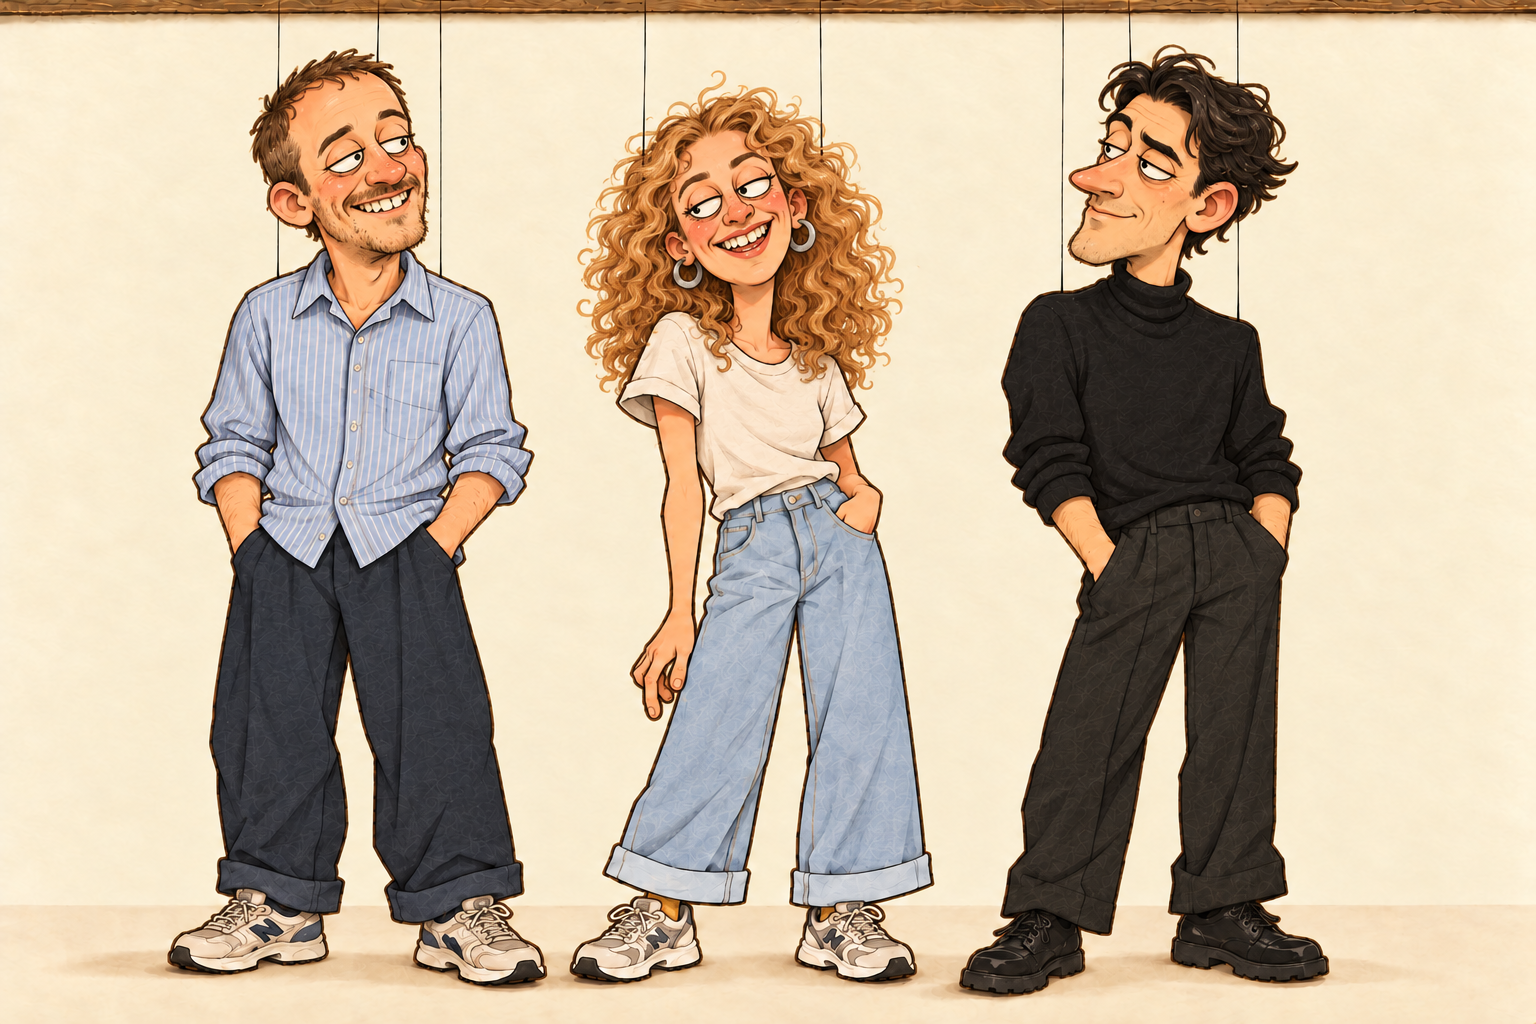
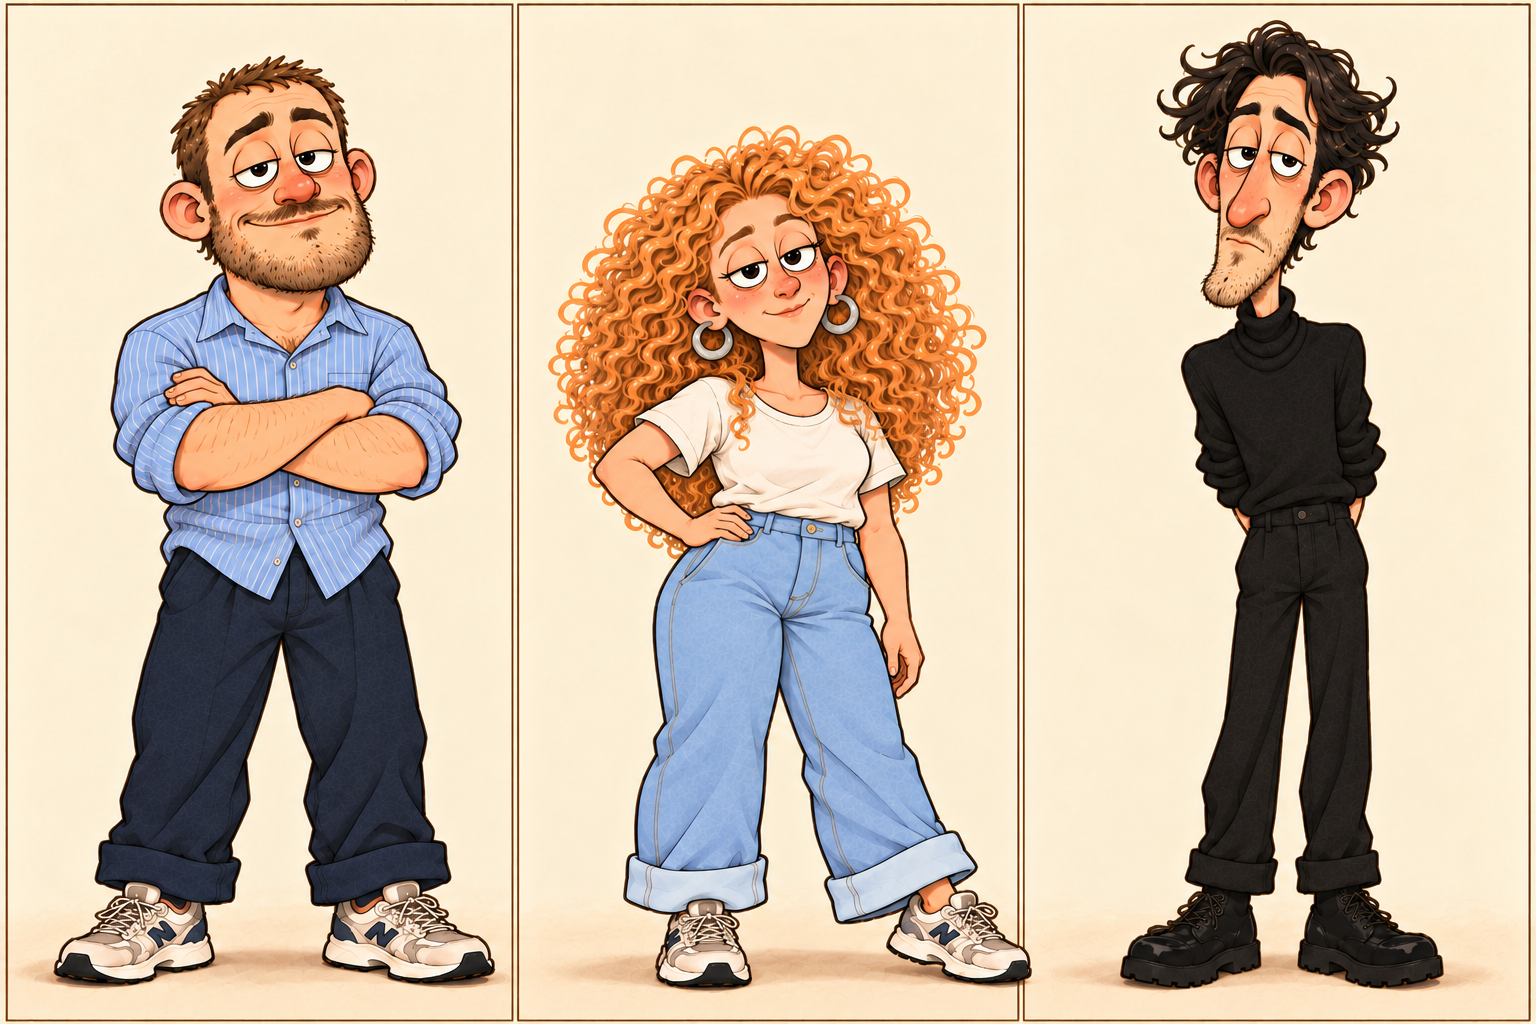
Unify nine character portraits with distinct revised caricatures

diff --git a/src/BrandTheatre.jsx b/src/BrandTheatre.jsx
@@ -47,6 +47,18 @@ const scenes = [
   },
 ];
 
+const characters = [
+  "Cyklisten",
+  "Den røde puffer",
+  "Striberne",
+  "Fodboldtrøjen",
+  "Den grønne jakke",
+  "Den blå frakke",
+  "Den blå skjorte",
+  "De jordbærblonde krøller",
+  "Den sorte rullekrave",
+];
+
 function SceneGallery({ onExploreMap }) {
   const [active, setActive] = useState(0);
   const tabs = useRef([]);
@@ -157,33 +169,38 @@ function SceneGallery({ onExploreMap }) {
           <ArrowRight size={19} />
         </button>
       </div>
-      <section className="theatre-cast" aria-label="SunSpot-figurerne">
+      <section
+        className="theatre-cast"
+        aria-label="SunSpots komplette karaktergalleri"
+      >
         <div className="theatre-cast-heading">
-          <h3>Byens soljægere.</h3>
-          <span>Originale figurer · København 2026</span>
+          <h3>Hele holdet.</h3>
+          <span>9 figurer · København 2026</span>
         </div>
-        <Image
-          src={illustrations["sunspot-cast"]}
-          alt="SunSpots originale voksne papfigurer med skæve proportioner, udtryksfulde ansigter, tekniske jakker, brede jeans og cykelvenlige sko."
-          placeholder="blur"
-          width={1536}
-          height={1024}
-          sizes="(max-width: 760px) calc(100vw - 52px), 880px"
-          loading="lazy"
-        />
-      </section>
-      <section className="theatre-cast" aria-label="Tre nye SunSpot-figurer">
-        <div className="theatre-cast-heading">
-          <h3>Tre mere i solen.</h3>
-          <span>Venner af SunSpot</span>
+        <div className="theatre-character-grid">
+          {characters.map((character, index) => (
+            <figure
+              className="theatre-character-card"
+              role="img"
+              aria-label={character}
+              key={character}
+            >
+              <div className="theatre-character-portrait">
+                <Image
+                  src={illustrations["sunspot-complete-cast"]}
+                  alt=""
+                  placeholder="blur"
+                  sizes="(max-width: 760px) calc((100vw - 88px) * 1.5), 860px"
+                  loading="lazy"
+                  style={{
+                    transform: `translate(-${(index % 3) * (100 / 3)}%, -${Math.floor(index / 3) * (100 / 3)}%)`,
+                  }}
+                />
+              </div>
+              <figcaption>{character}</figcaption>
+            </figure>
+          ))}
         </div>
-        <Image
-          src={illustrations["sunspot-friends-trio"]}
-          alt="Tre skæve papkarikaturer: en smilende mand i blå skjorte, en kvinde med jordbærblonde krøller og hvid T-shirt og en mørkhåret mand i sort rullekrave."
-          placeholder="blur"
-          sizes="(max-width: 760px) calc(100vw - 52px), 880px"
-          loading="lazy"
-        />
       </section>
       <GoldenHourExample />
       {onExploreMap && (

diff --git a/src/theatre.css b/src/theatre.css
@@ -171,7 +171,7 @@
 }
 .theatre-cast {
   margin: 28px 0 32px;
-  padding: 22px 18px 0;
+  padding: 22px 18px;
   border: 1px solid #293c3120;
   border-radius: 9px 15px 10px 7px;
   background: color-mix(
@@ -194,13 +194,38 @@
   font-size: 10px;
   opacity: 0.75;
 }
-.theatre-cast > img {
+.theatre-character-grid {
+  display: grid;
+  grid-template-columns: repeat(3, minmax(0, 1fr));
+  gap: 18px 14px;
+  margin-top: 20px;
+}
+.theatre-character-card {
+  min-width: 0;
+  margin: 0;
+}
+.theatre-character-portrait {
+  position: relative;
+  aspect-ratio: 2 / 3;
+  overflow: hidden;
+  border: 1px solid #293c3120;
+  border-radius: 7px 10px 5px 8px;
+  background: var(--cream, #f3edde);
+}
+.theatre-character-portrait > img {
+  position: absolute;
+  top: 0;
+  left: 0;
   display: block;
-  width: 100%;
-  height: auto;
-  max-height: 440px;
-  object-fit: contain;
+  width: 300%;
+  height: 300%;
+  max-width: none;
   mix-blend-mode: multiply;
+}
+.theatre-character-card figcaption {
+  padding: 10px 2px 0;
+  font-size: 12px;
+  line-height: 1.4;
 }
 .theatre-example {
   padding: 14px;
@@ -423,7 +448,15 @@
     font-size: 11px;
   }
   .theatre-cast {
-    padding: 17px 12px 0;
+    padding: 17px 12px;
+  }
+  .theatre-character-grid {
+    grid-template-columns: repeat(2, minmax(0, 1fr));
+    gap: 16px 10px;
+    margin-top: 16px;
+  }
+  .theatre-character-card figcaption {
+    font-size: 11px;
   }
   .theatre-example {
     padding: 10px;

diff --git a/src/illustrations.js b/src/illustrations.js
@@ -5,6 +5,7 @@ import chase from "../public/illustrations/chasing-sun.png";
 import friends from "../public/illustrations/golden-hour-friends.png";
 import cast from "../public/illustrations/sunspot-cast.png";
 import trio from "../public/illustrations/sunspot-friends-trio.png";
+import completeCast from "../public/illustrations/sunspot-complete-cast.png";
 
 // Static imports provide content-hashed URLs, dimensions and native blur previews.
 export const illustrations = {
@@ -15,4 +16,5 @@ export const illustrations = {
   "golden-hour-friends": friends,
   "sunspot-cast": cast,
   "sunspot-friends-trio": trio,
+  "sunspot-complete-cast": completeCast,
 };

diff --git a/docs/visual-identity.md b/docs/visual-identity.md
@@ -31,9 +31,9 @@ The five scenes are:
 4. Friends chasing the sun between Copenhagen buildings.
 5. A gathering outside a bar during Golden Hour.
 
-The original six-person cast is joined by three portrait-inspired caricatures in `sunspot-friends-trio.png`: a smiling man in a blue striped shirt, a strawberry-blonde curly-haired woman in a white T-shirt and a dark-haired man in a black turtleneck. Their uneven smiles, pronounced noses and imperfect faces keep them humorous rather than polished. All characters retain heavy eyelids with medium, clearly visible pupils, between large irises and tiny dots.
+The original six-person cast is joined by three portrait-inspired caricatures in `sunspot-friends-trio.png`: a broad man with a large head, small nose and short beard in a blue striped shirt, a shorter, slightly fuller strawberry-blonde curly-haired woman in a white T-shirt and an angular dark-haired man with a short beard in a black turtleneck. Exaggerated silhouettes, distinctive noses and imperfect faces match the absurd proportions of the first six. The three new characters appear as independent solo portraits looking toward the viewer, with closed mouths and restrained, wry expressions rather than broad grins. The blue-shirt character has a broad, square face, short nose and folded arms; the curly-haired character rests one hand on her hip; the black-turtleneck character has a long, angular face, longer nose and hands behind his back. Their silhouettes and poses stay distinct. All characters retain heavy eyelids with medium, clearly visible pupils, between large irises and tiny dots.
 
-All seven PNG assets are in `public/illustrations`. Static imports give them content-hashed URLs and native blur previews. They are served through Next.js image optimization at responsive sizes; scenes load individually when opened. Full-size source artwork is not downloaded as an initial bundle.
+All eight PNG assets are in `public/illustrations`, including the complete nine-person cast sheet `sunspot-complete-cast.png`. Its equal three-by-three cells supply nine individually labelled cards in one gallery, with two columns on mobile and three on desktop. Static imports give the artwork content-hashed URLs and native blur previews. Images are served through Next.js optimization at responsive sizes; scenes load individually when opened. Full-size source artwork is not downloaded as an initial bundle.
 
 ## Interaction and data honesty
 
